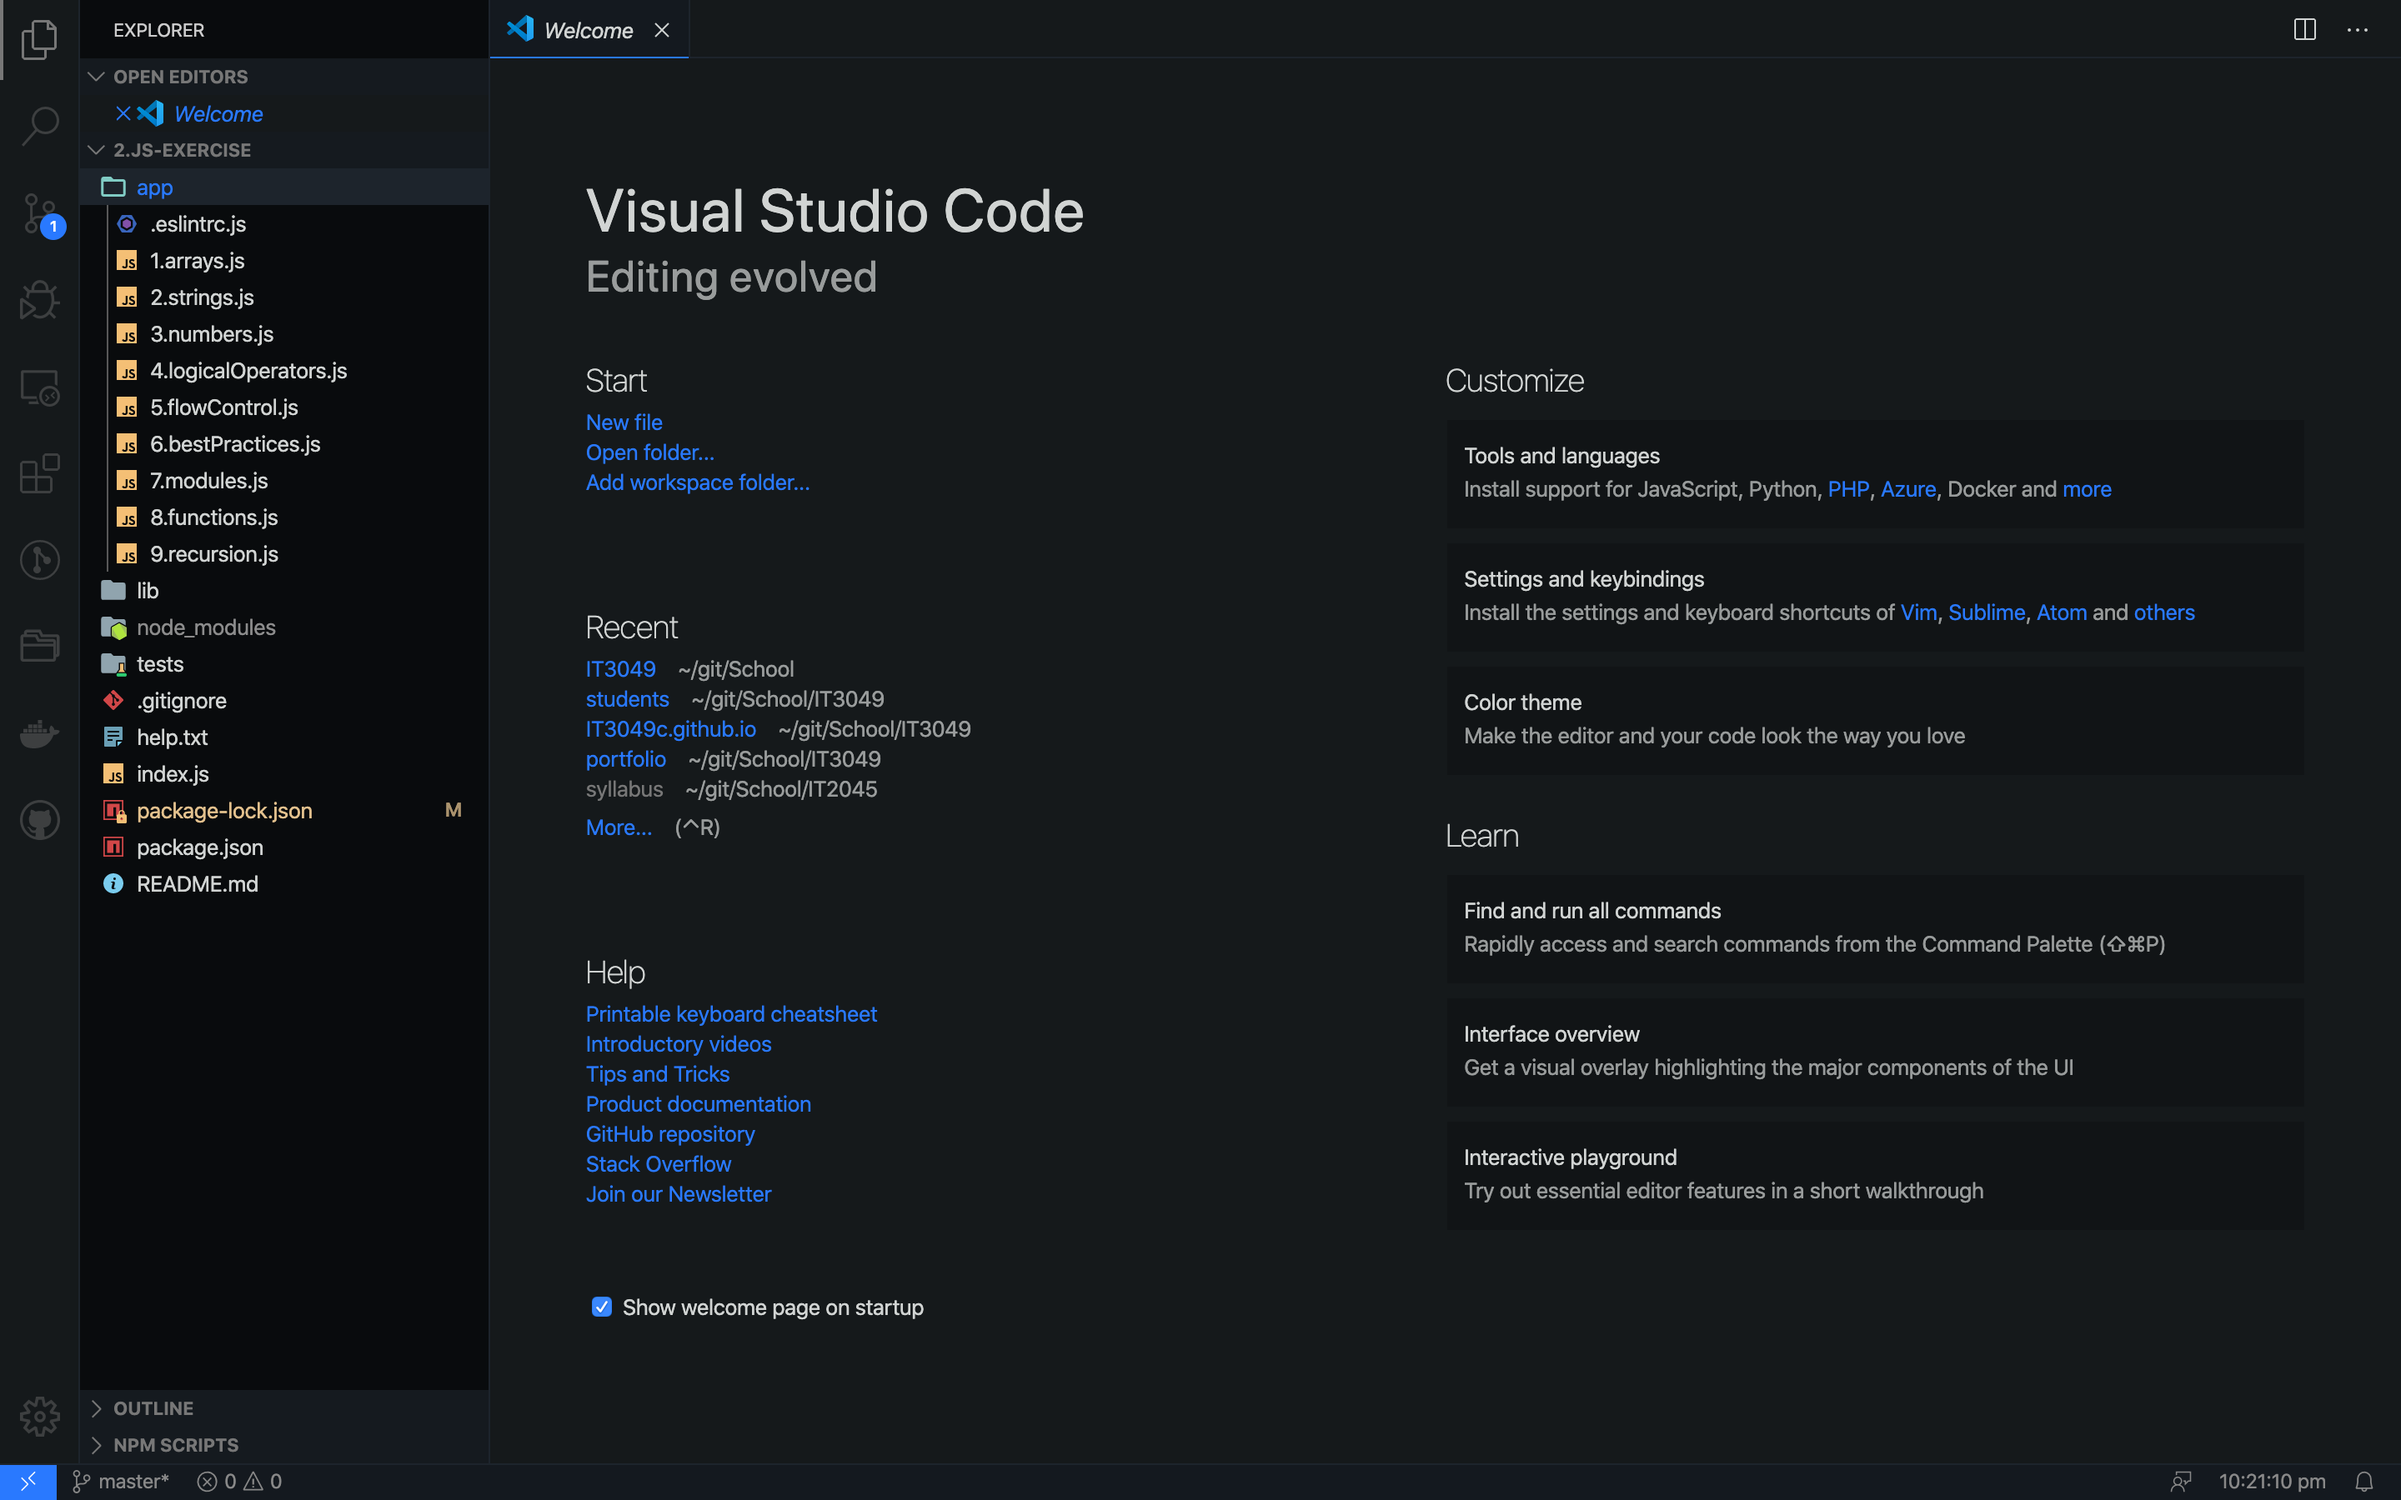
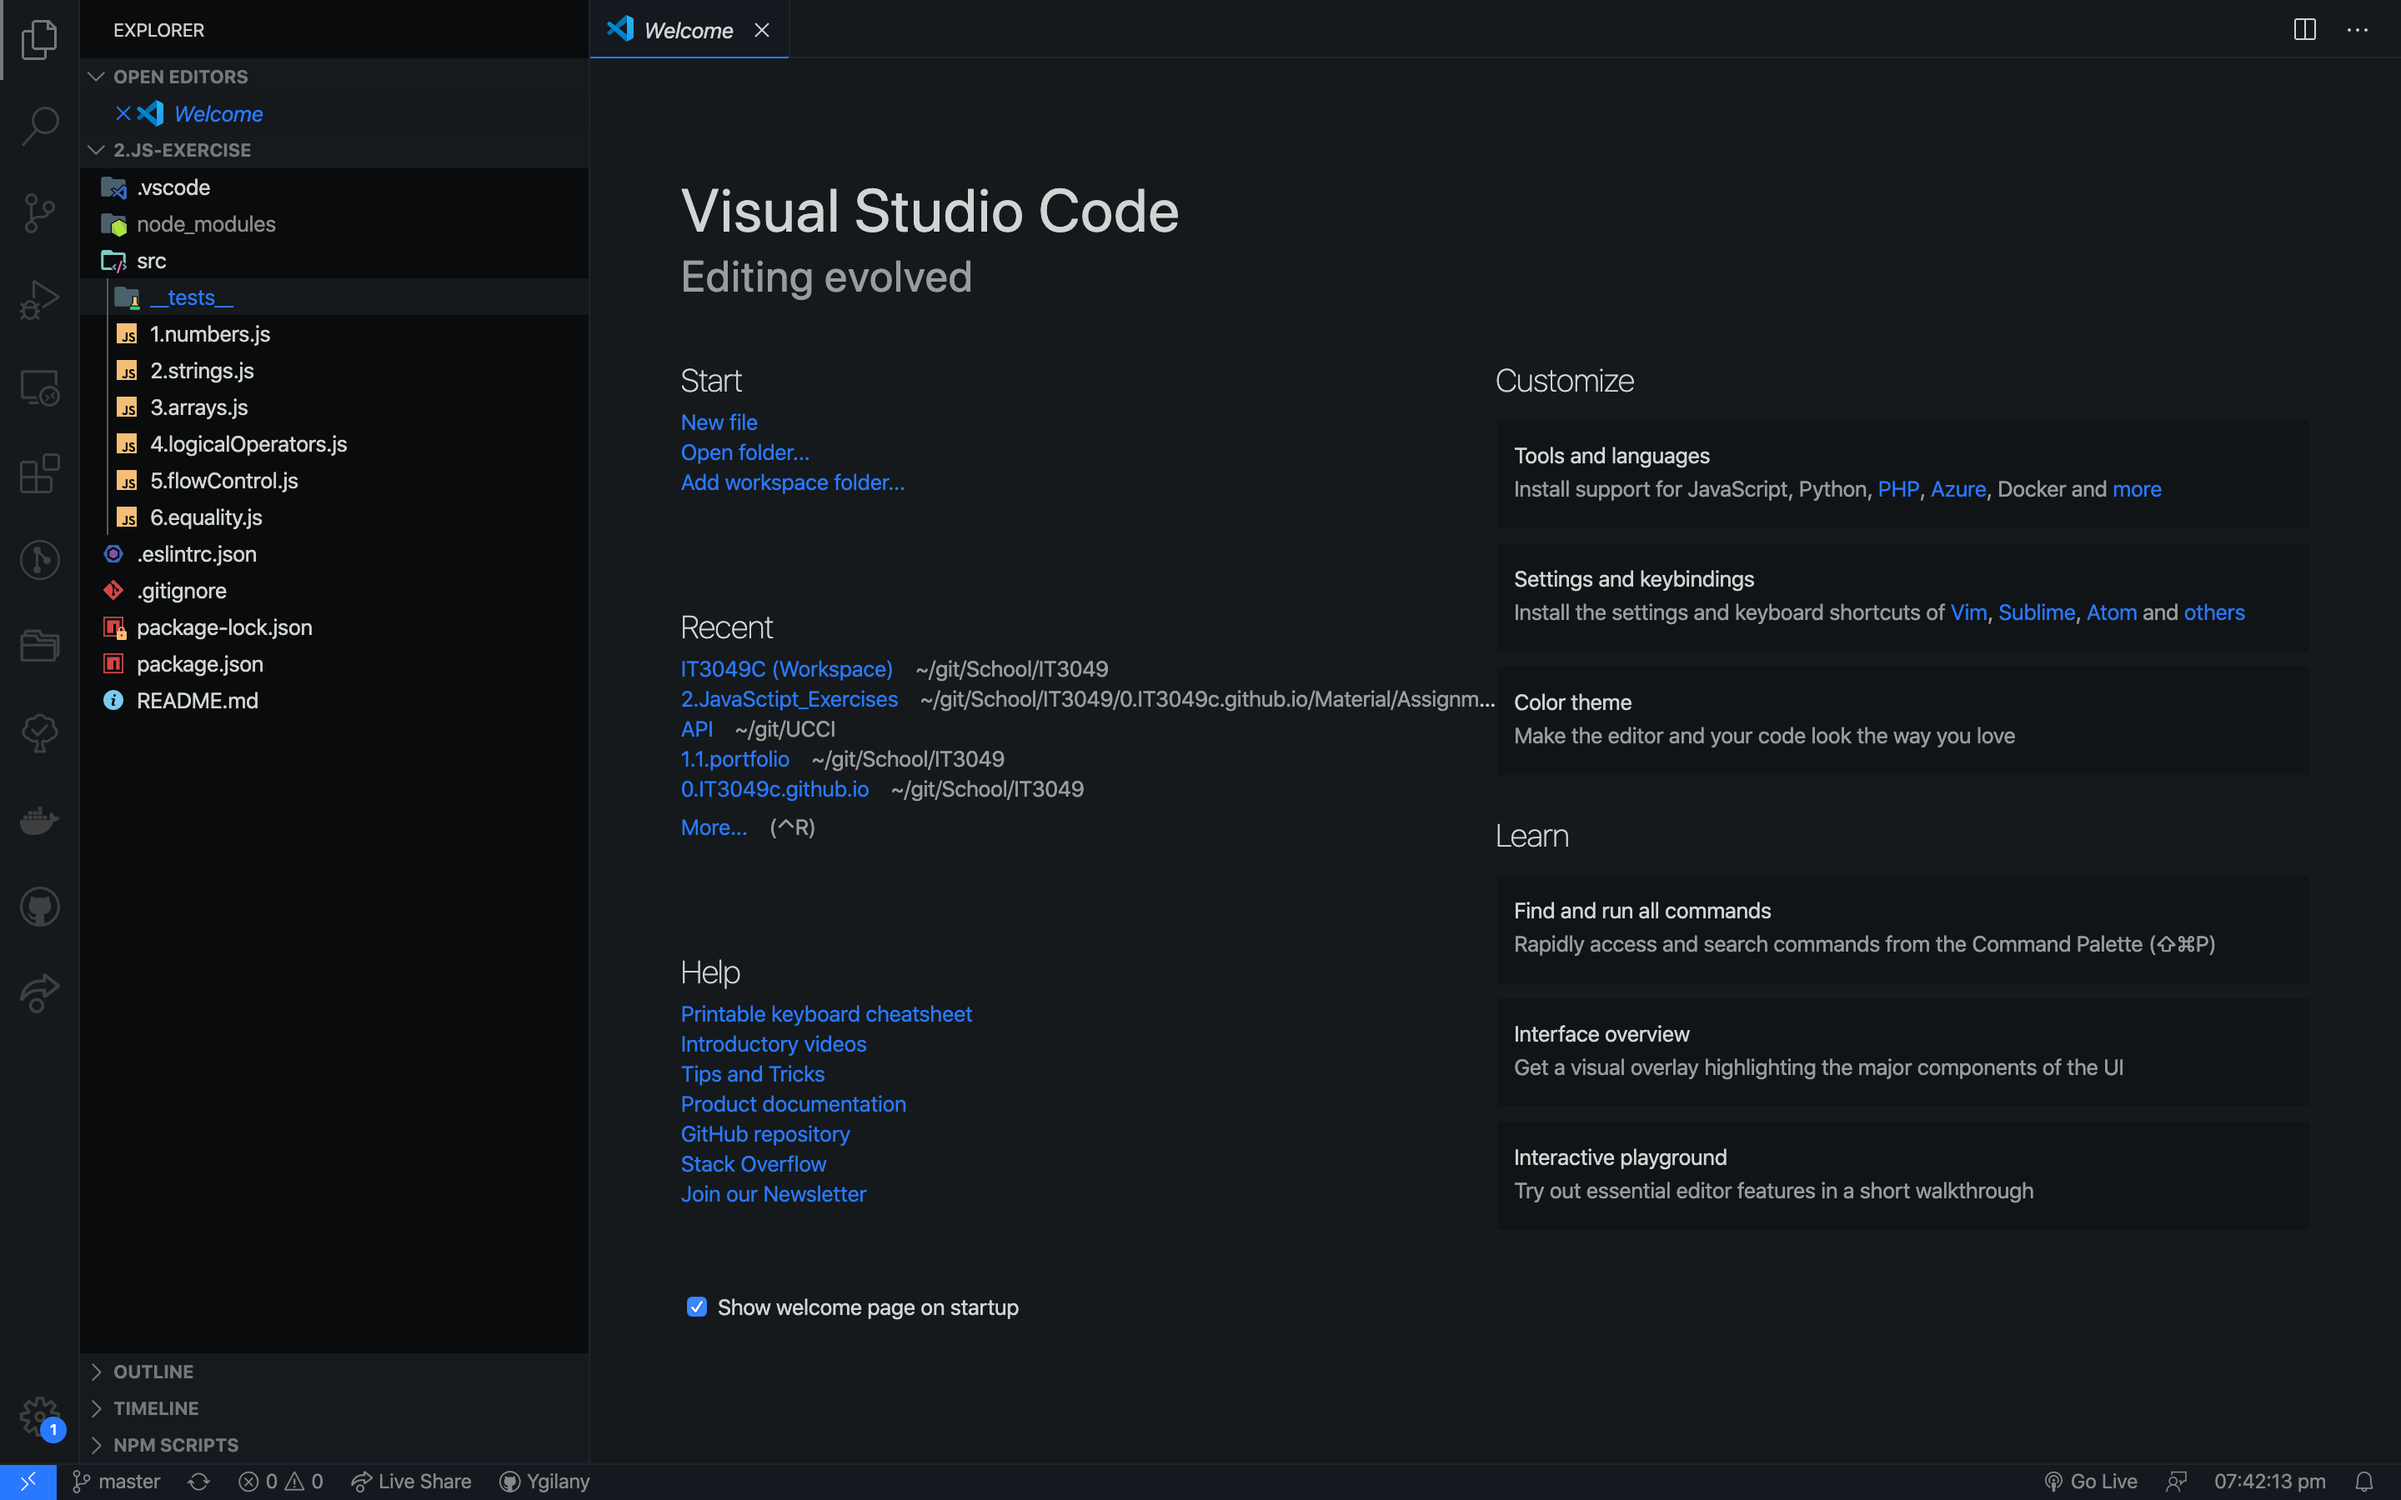
updated instructions for the JavaScript assignment

diff --git a/Material/Assignments/2.JavaSctipt_Exercises/index.md b/Material/Assignments/2.JavaSctipt_Exercises/index.md
@@ -16,11 +16,11 @@ nav_order: 2
 
 ---
 
-## Lab Goals
-This Lab is collection of JavaScript execises and coding challenges. It's focused on problem solving techniques and JavaScript Fundamentals.
-
-## Tips and Guidelines
-* Make a git commit at the **end of each** of the exercises. There are 20 tests, so there should be 20+ commits at the end of this.
+## Exercise Goals
+This is a collection of JavaScript exercises and coding challenges. The focus in this assignment is to:
+- Practice problem solving.
+- Practice JavaScript fundamentals.
+- Practice using the official documentation. (We'll be using many documentations for many libraries so it's good to start here) 
 
 ## Instructions
 1. Accept the Assignment on Canvas.
@@ -37,58 +37,104 @@ This Lab is collection of JavaScript execises and coding challenges. It's focuse
       │   │   ├── 4.logicalOperators.js
       │   │   ├── 5.flowControl.js
       │   │   └── 6.equality.js
-      │   ├── 1.numbers.js
-      │   ├── 2.strings.js
-      │   ├── 3.arrays.js
-      │   ├── 4.logicalOperators.js
-      │   ├── 5.flowControl.js
-      │   └── 6.equality.js
+      │   ├── 1.numbers.js          ⬅
+      │   ├── 2.strings.js          ⬅
+      │   ├── 3.arrays.js           ⬅
+      │   ├── 4.logicalOperators.js ⬅
+      │   ├── 5.flowControl.js      ⬅
+      │   └── 6.equality.js         ⬅
       ├── .eslintrc.json
       ├── .gitignore
       ├── package-lock.json
       ├── package.json
-      └── README.md
+      └── README.md                 🔼: update this once done
     ```
-  * you will only be working on files in the 
+  * you will only be working on the files marked with the arrows
 2. Clone down the repository to your local computer.
 3. Install the project dependencies using the `npm install` command.
+  * make sure you're in the project directory in the terminal before you run this command.
 4. Run the project tests using `npm test`
   You should see all the tests failing like so:
-  ![](assets/)
-6. For this assignment, you will modifying the files in the app folder. Each file repesent a suite of function that you'll implement untill all the tests pass.
-7. Don't forget to fill out the self assessment in the `README.md` file.
-8. commit and push your code.
+  ![failing tests image](assets/failing_tests.png)
 
-### Demo:
-#### Setup
-1. Navigate to your repository in the command line using the `cd PATH_TO_FOLDER` command.
-  - in my case the command was `cd /Users/yahyagilany/git/School/IT3049/2.JS-Exercise`
-  - use the `pwd` command to `P`rint `W`orking `D`irectory.
+5. Our task would be to implement the functions in the `src` files (marked with ⬅ arrow above) untill all the tests pass.
+6. at the end of each test, commit your code <img alt="commit logo" style="height: 20px;margin-bottom: -4px;" src="https://upload.wikimedia.org/wikipedia/commons/thumb/e/e5/Octicons-git-commit.svg/1200px-Octicons-git-commit.svg.png"/> `git commit -m "finished test xyz"`. 
+
+7. Update the README.md file with your self assessment.
+8. push your code.
+
+## Demo 1:
+### Setup
+1. Navigate to your repository in the command line.
+  - You can either use the `cd PATH_TO_FOLDER` command.
+    - in my case the command was `cd /Users/yahyagilany/git/School/IT3049/2.JS-Exercise`
+    - use the `pwd` command to `P`rint `W`orking `D`irectory and confirm your location
+  - **OR** You could open VSCode integrated terminal window and it will open in the termianl already in the right path.
 2. Installing the dependencies `npm install`
-3. starting the project `npm start` and opening `127.0.0.100:4444` in the browser.
-  <img alt="example image" src="assets/browser_failing_tests.png" style="height:400px; border:1px #ddd solid;"/>
+3. Run the tests using `npm test`.
+  <img alt="example image" src="assets/failing_tests.png" style="height:400px; border:1px #ddd solid;"/>
   - notice all the errors, our goal for this assignment is to resolve them all.
-  - on the top, you see the tally of how many tests passed, and how many are failing.
-  - next to each test, there's a little play button to run that a specific test.
 
-
-#### Getting Down to Business
+### Getting Down to Business
 1. Open the project in *Visual Studio Code* (Not Visual Studio)
-  <img alt="example image" src="assets/visualStudioCode.png" style="height:400px; border:1px #ddd solid;"/>
-2. Open the file `app/1.array.js`
-  - notice all the functions have empty implementations, our tasks is provide implementation so the tests pass.
-3. After consulting the JS documeantion provided at the top of the file (OR [this one](https://developer.mozilla.org/en-US/docs/Web/JavaScript/Reference/Global_Objects/Array)), you should be able to identify the functions needed to be used.
-4. for the first test, the `indexOf` method is supposed to return the index of a certain element in an array. [You can learn more about JS Built-in method here](https://developer.mozilla.org/en-US/docs/Web/JavaScript/Reference/Global_Objects/Array/indexOf)
-5. my implementation for this is as follows
+    <img alt="example image" src="assets/visualStudioCode.png" style="height:400px; border:1px #ddd solid;"/>
+    
+    **Let's try to solve a couple of those tests.**
+
+2. Open the file `src/1.numbers.js`. Particulary
+    ```js
+      //parseInt: should use parseInt correctly to convert strings to integer numbers
+      function parseInt (str) {
+        return ;
+      }
+    ```
+    - notice the function have an empty implementation. - We need to do something about that 🤔
+
+3. Consulting the [JS documeantion for the Number Data Type](https://developer.mozilla.org/en-US/docs/Web/JavaScript/Reference/Global_Objects/Number), you learn that there's a function named [Number.parseInt()](https://developer.mozilla.org/en-US/docs/Web/JavaScript/Reference/Global_Objects/Number/parseInt). The documentations shows usage examples, and specifies the parameters and return type of the function.
+ 
+    <img alt="Number.parseInt() docs" src="assets/parseIntDocs.png" style="height:500px; border:1px #ddd solid;"/>
+    
+    **Key Takeways:**
+      -  Be careful the Radix does not default to 10!, so we'll have to set that optional parameter as follows
+  ```js
+    function parseInt(str) {
+        return Number.parseInt(str, 10);
+    }
+  ```
+      - Don't forget to `return` something from the function.
+4. Re-run the tests again and let's see if it passes
+
+    <img alt="1 passing test" src="assets/1passing_test.png" style="width:400px; border:1px #ddd solid;"/>
+5. commit your code <img alt="commit logo" style="height: 20px;margin-bottom: -4px;" src="https://upload.wikimedia.org/wikipedia/commons/thumb/e/e5/Octicons-git-commit.svg/1200px-Octicons-git-commit.svg.png"/> `git commit -m "finished test parseInt"`. 
+
+## Demo 2:
+1. Well, no need for the setup steps here (you should already be in the directory)
+2. Open the file `src/3.arrays.js`. Particulary
+    ```js
+      /**
+        * IndexOf: you should be able to determine the location of an item in an array
+        * Example: 
+        * arr = [1,2,3,5,6]
+        * calling the function like 
+        * indexoff(arr, 3); should return the index 2
+        */
+        function indexOf(arr, item) {
+          return ;
+        }
+    ```
+3. The `indexOf` method is supposed to return the index of a certain element in an array. [You can learn more about JS Built-in method here](https://developer.mozilla.org/en-US/docs/Web/JavaScript/Reference/Global_Objects/Array/indexOf)
+4. my implementation for this is as follows
   ```js
     function indexOf(arr, item) {
         return arr.indexOf(item);
     }
   ```
+5. Re-run the tests again and let's see if it passes
+6. commit your code <img alt="commit logo" style="height: 20px;margin-bottom: -4px;" src="https://upload.wikimedia.org/wikipedia/commons/thumb/e/e5/Octicons-git-commit.svg/1200px-Octicons-git-commit.svg.png"/> `git commit -m "finished test: IndexOf"`. 
 
-6. Look back on the tests page on the browser. Notice the test pass.
-  <img alt="example image" src="assets/passing_test.png" style="height:400px; border:1px #ddd solid;"/>
-7. Commit the changes with a proper commit messgae.
-8. On to the next test .. Rinse and Repeat🧪
+7. On to the next test .. Rinse 🧼 and Repeat 🔁
 
 ## Resources
+- [Standard JavaScript Built-in Objects > Number](https://developer.mozilla.org/en-US/docs/Web/JavaScript/Reference/Global_Objects/Number)
+- [Standard JavaScript Built-in Objects > String](https://developer.mozilla.org/en-US/docs/Web/JavaScript/Reference/Global_Objects/String)
+- [Standard JavaScript Built-in Objects > Array](https://developer.mozilla.org/en-US/docs/Web/JavaScript/Reference/Global_Objects/Array)
